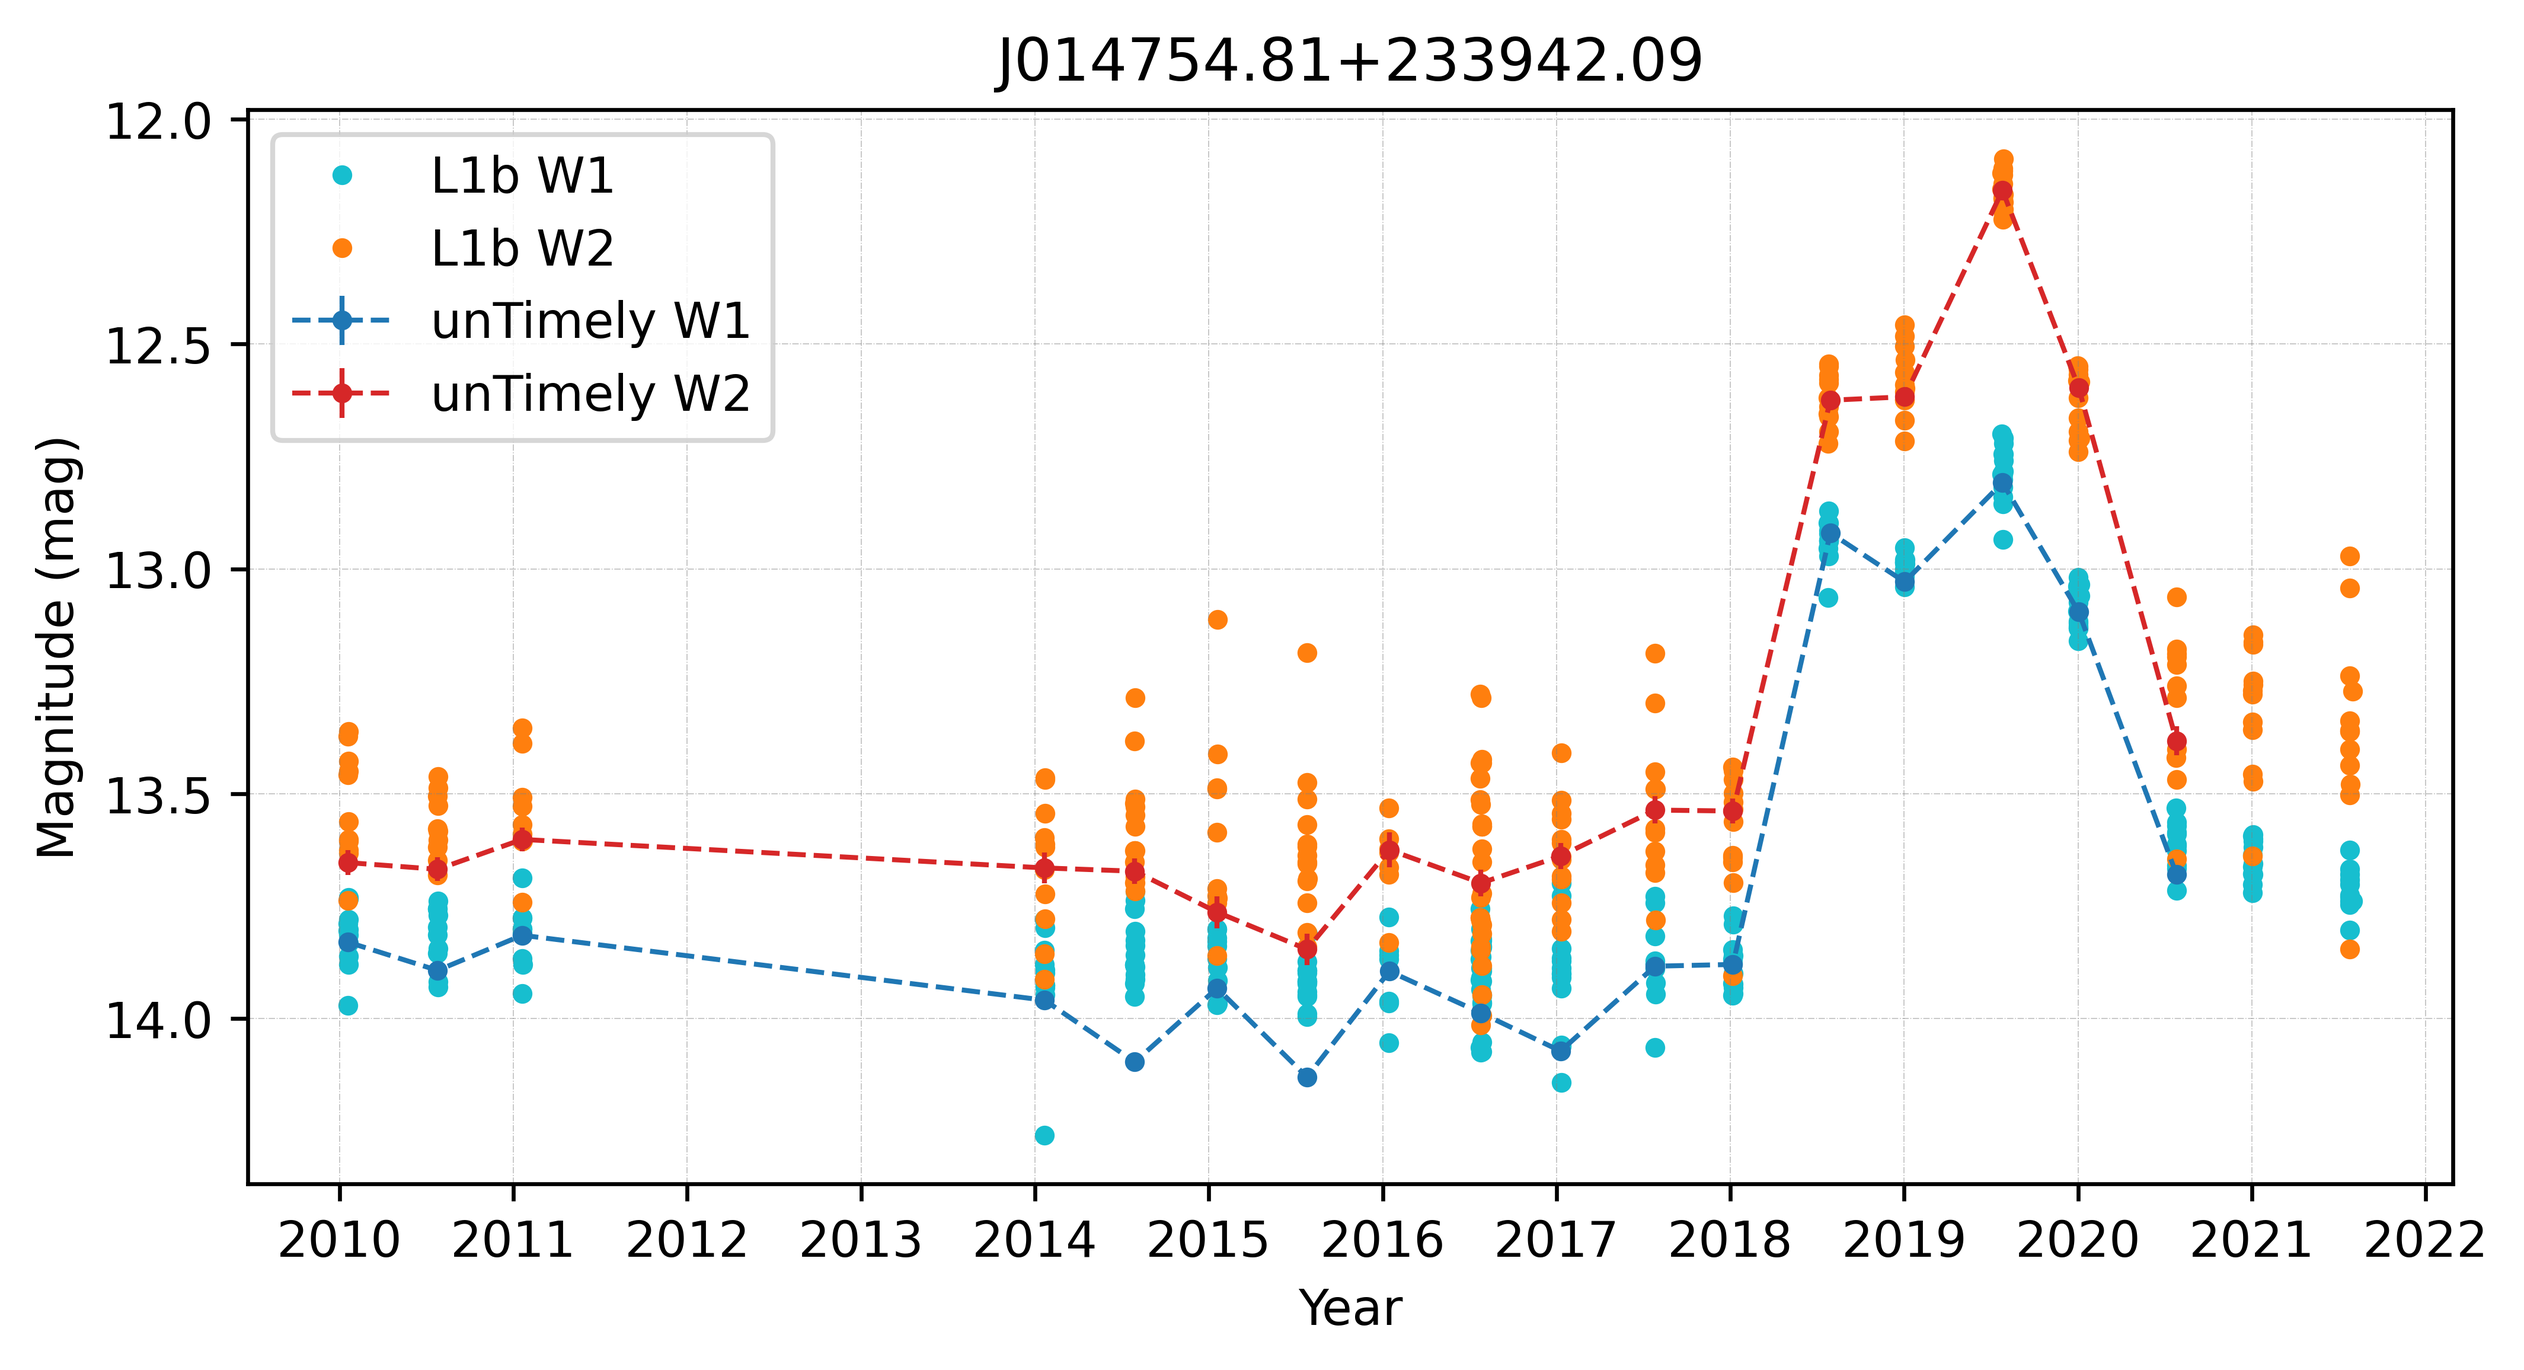
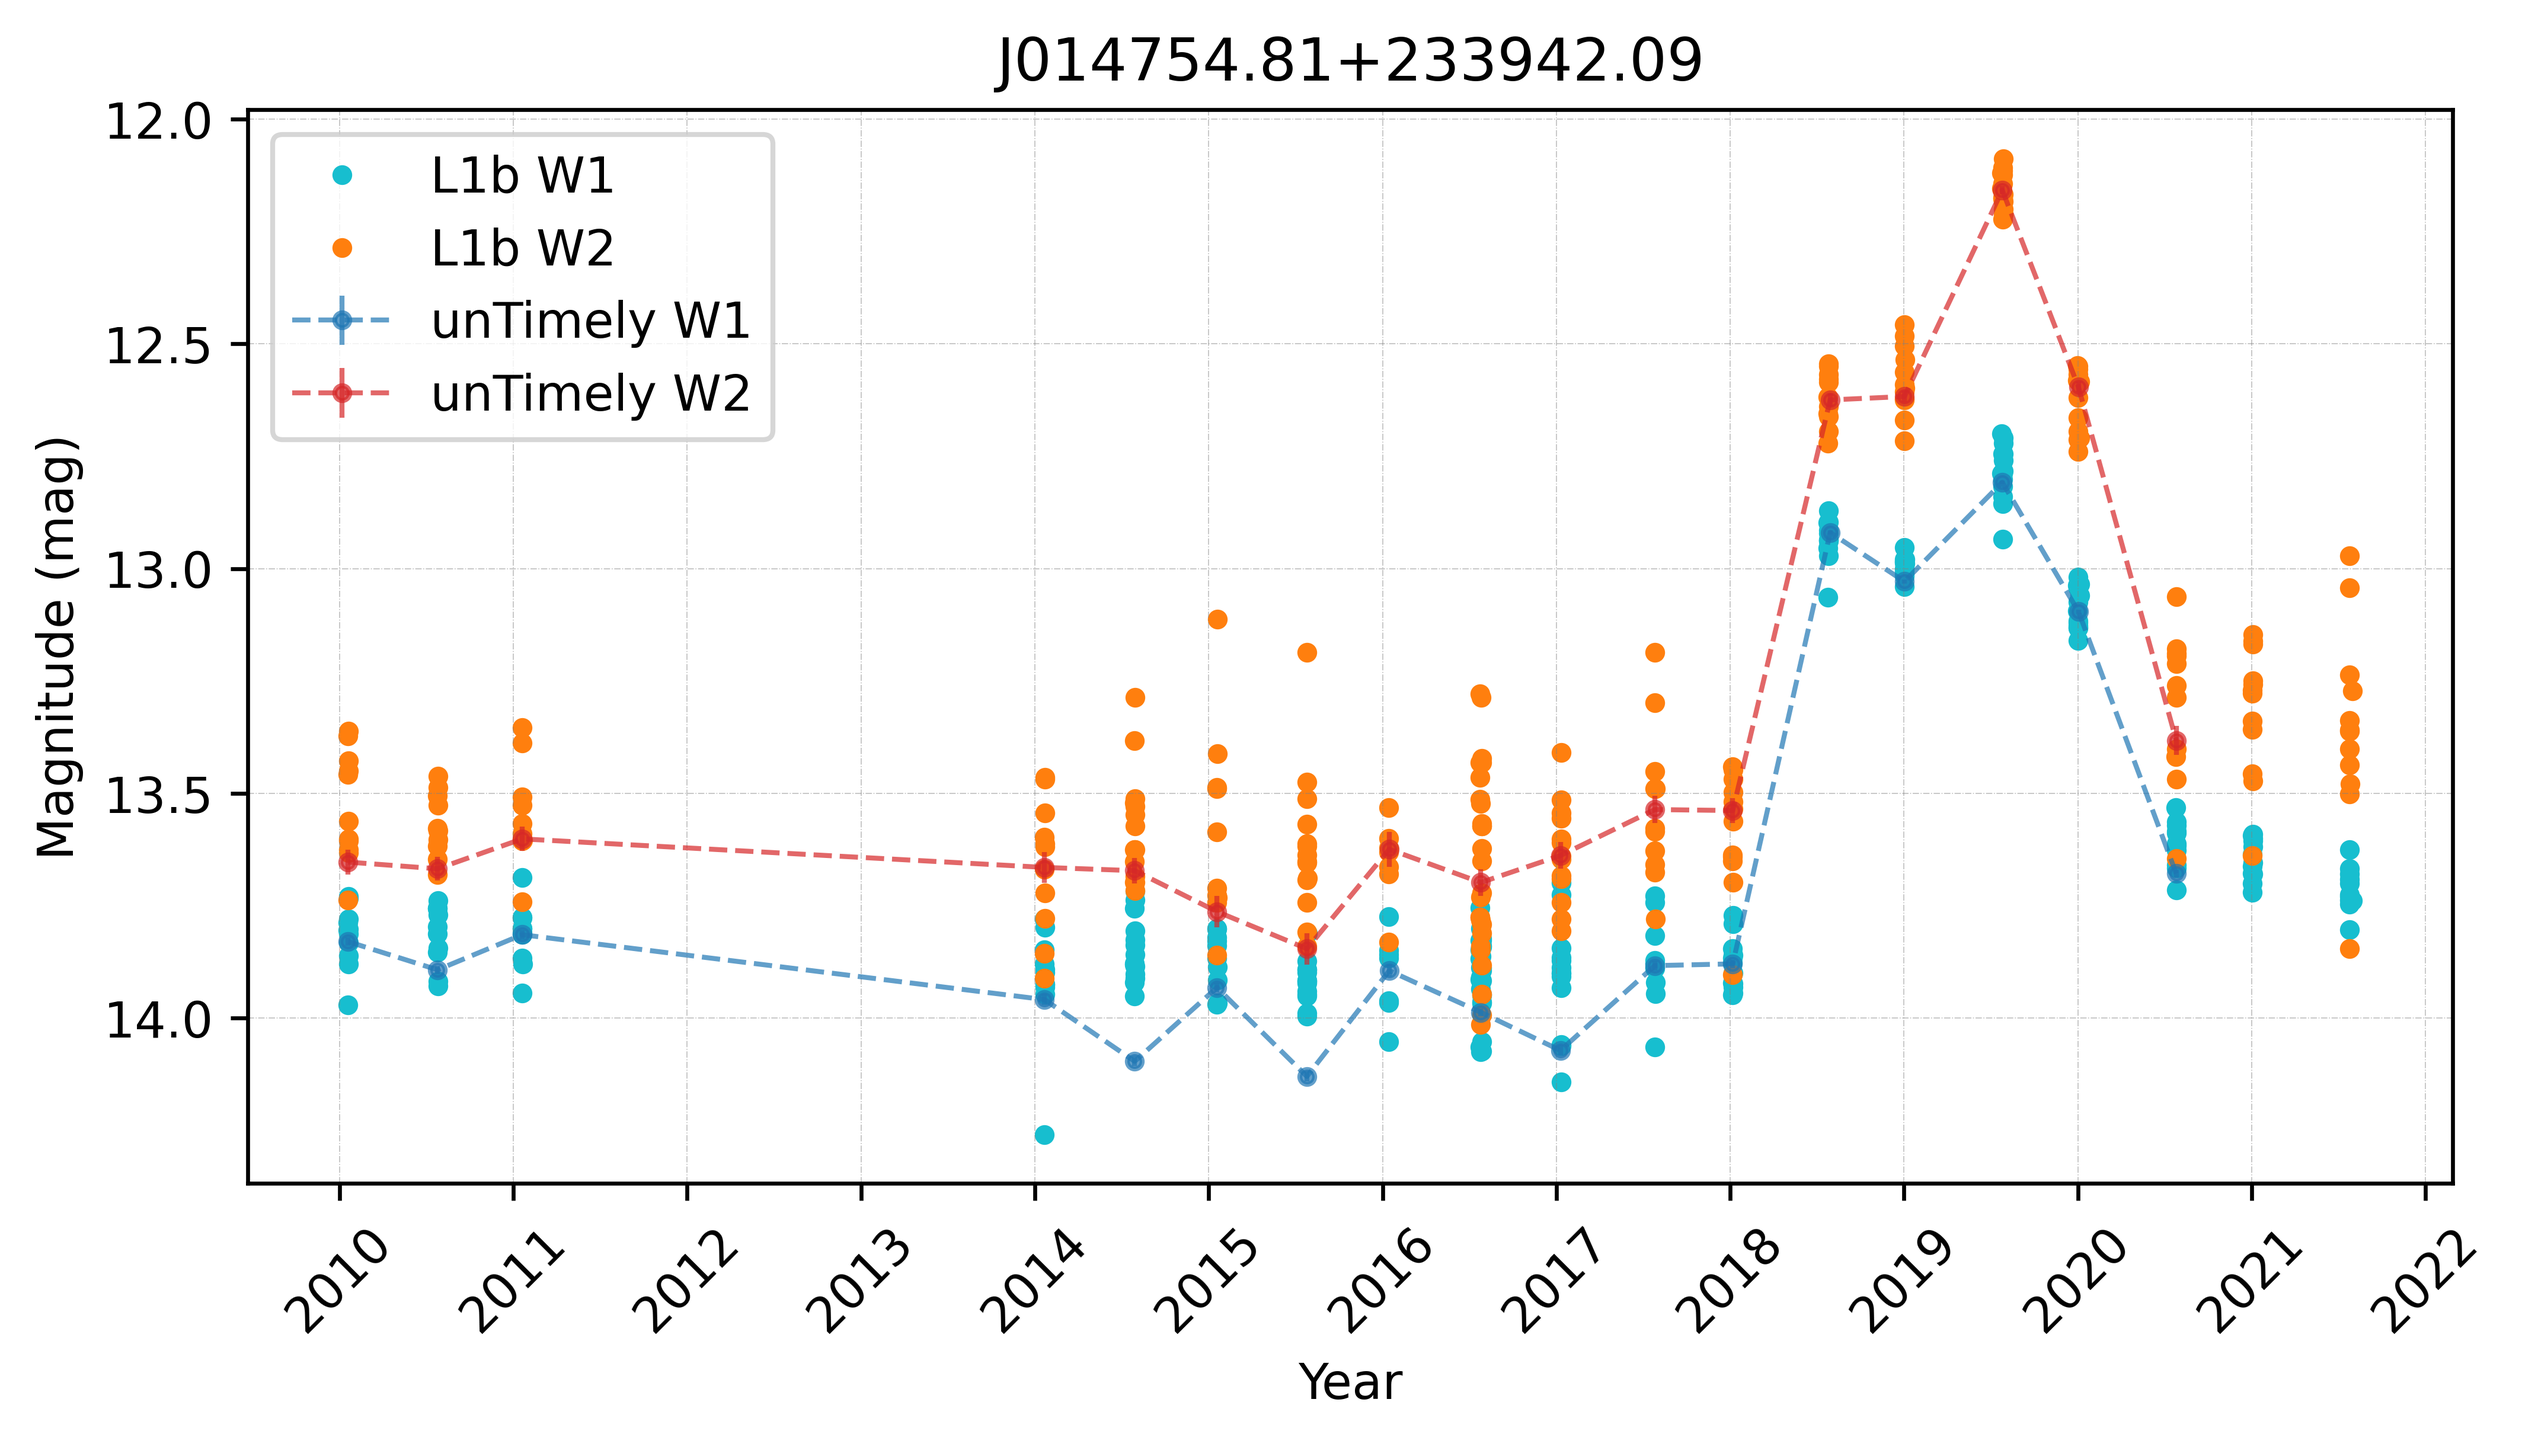
L1b photometry is sigma clipped

diff --git a/unTimely_Catalog_tools.py b/unTimely_Catalog_tools.py
@@ -12,6 +12,7 @@ import matplotlib.pyplot as plt
 from matplotlib.patches import BoxStyle, Rectangle
 from astropy.io import fits, ascii
 from astropy.table import Table
+from astropy.stats import sigma_clip
 from astropy.visualization import make_lupton_rgb
 from astropy.nddata import Cutout2D
 from astropy.time import Time
@@ -187,9 +188,7 @@ class unTimelyCatalogExplorer:
         return allwise, neowise
 
     def std_error(self, data):
-        std = data.groups.aggregate(np.std)
-        bin_size = data.groups.aggregate(np.size)
-        return std / np.sqrt(bin_size)
+        return np.ma.std(data) / np.ma.sqrt(len(data))
 
     def get_neowise_image(self, ra, dec, epoch, band, size):
         download_url = 'http://byw.tools/cutout?ra={ra}&dec={dec}&size={size}&band={band}&epoch={epoch}'
@@ -792,25 +791,46 @@ class unTimelyCatalogExplorer:
             neowise_year = Time(neowise['mjd'], format='mjd').jyear
 
             if bin_l1b_phot:
+                # Set common sigma clipping parameters
+                sigma = 3
+                maxiters = None
+
+                yr = []
+                w1 = []
+                w2 = []
+                e_w1 = []
+                e_w2 = []
+
                 allwise.add_column(allwise_year, name='year')
                 year_bin = np.trunc(allwise_year / 0.5)
                 grouped = allwise.group_by(year_bin)
-                binned = grouped.groups.aggregate(np.median)
 
-                plt.errorbar(binned['year'], binned['w1mpro_ep'], yerr=self.std_error(grouped['w1mpro_ep']),
-                             lw=1, linestyle='--', markersize=3, marker='o', zorder=0, c='tab:cyan')
-                plt.errorbar(binned['year'], binned['w2mpro_ep'], yerr=self.std_error(grouped['w2mpro_ep']),
-                             lw=1, linestyle='--', markersize=3, marker='o', zorder=1, c='tab:orange')
+                for group in grouped.groups:
+                    yr_clipped = sigma_clip(group['year'], sigma=sigma, maxiters=maxiters)
+                    w1_clipped = sigma_clip(group['w1mpro_ep'], sigma=sigma, maxiters=maxiters)
+                    w2_clipped = sigma_clip(group['w2mpro_ep'], sigma=sigma, maxiters=maxiters)
+                    yr.append(np.ma.median(yr_clipped))
+                    w1.append(np.ma.median(w1_clipped))
+                    w2.append(np.ma.median(w2_clipped))
+                    e_w1.append(self.std_error(w1_clipped))
+                    e_w2.append(self.std_error(w2_clipped))
 
                 neowise.add_column(neowise_year, name='year')
                 year_bin = np.trunc(neowise_year / 0.5)
                 grouped = neowise.group_by(year_bin)
-                binned = grouped.groups.aggregate(np.median)
 
-                plt.errorbar(binned['year'], binned['w1mpro'], yerr=self.std_error(grouped['w1mpro']),
-                             lw=1, linestyle='--', markersize=3, marker='o', label='L1b median W1', zorder=0, c='tab:cyan')
-                plt.errorbar(binned['year'], binned['w2mpro'], yerr=self.std_error(grouped['w2mpro']),
-                             lw=1, linestyle='--', markersize=3, marker='o', label='L1b median W2', zorder=1, c='tab:orange')
+                for group in grouped.groups:
+                    yr_clipped = sigma_clip(group['year'], sigma=sigma, maxiters=maxiters)
+                    w1_clipped = sigma_clip(group['w1mpro'], sigma=sigma, maxiters=maxiters)
+                    w2_clipped = sigma_clip(group['w2mpro'], sigma=sigma, maxiters=maxiters)
+                    yr.append(np.ma.median(yr_clipped))
+                    w1.append(np.ma.median(w1_clipped))
+                    w2.append(np.ma.median(w2_clipped))
+                    e_w1.append(self.std_error(w1_clipped))
+                    e_w2.append(self.std_error(w2_clipped))
+
+                plt.errorbar(yr, w1, e_w1, lw=1, linestyle='--', markersize=3, marker='o', label='L1b median W1', zorder=0, c='tab:cyan')
+                plt.errorbar(yr, w2, e_w2, lw=1, linestyle='--', markersize=3, marker='o', label='L1b median W2', zorder=1, c='tab:orange')
             else:
                 plt.plot(allwise_year, allwise['w1mpro_ep'], '.', zorder=0, c='tab:cyan')
                 plt.plot(allwise_year, allwise['w2mpro_ep'], '.', zorder=1, c='tab:orange')
@@ -823,9 +843,9 @@ class unTimelyCatalogExplorer:
             plt.xticks(range(2010, 2021, 1))
 
         plt.errorbar(Time(phot_table_w1['mjdmean'], format='mjd').jyear, phot_table_w1['mag'], yerr=phot_table_w1['dmag'],
-                     lw=1, linestyle='--', markersize=3, marker='o', label='unTimely W1', zorder=2, c='tab:blue')
+                     lw=1, linestyle='--', markersize=3, marker='o', label='unTimely W1', zorder=2, c='tab:blue', alpha=0.7 if overplot_l1b_phot else 1.0)
         plt.errorbar(Time(phot_table_w2['mjdmean'], format='mjd').jyear, phot_table_w2['mag'], yerr=phot_table_w2['dmag'],
-                     lw=1, linestyle='--', markersize=3, marker='o', label='unTimely W2', zorder=3, c='tab:red')
+                     lw=1, linestyle='--', markersize=3, marker='o', label='unTimely W2', zorder=3, c='tab:red', alpha=0.7 if overplot_l1b_phot else 1.0)
 
         if yticks:
             plt.yticks(yticks)
